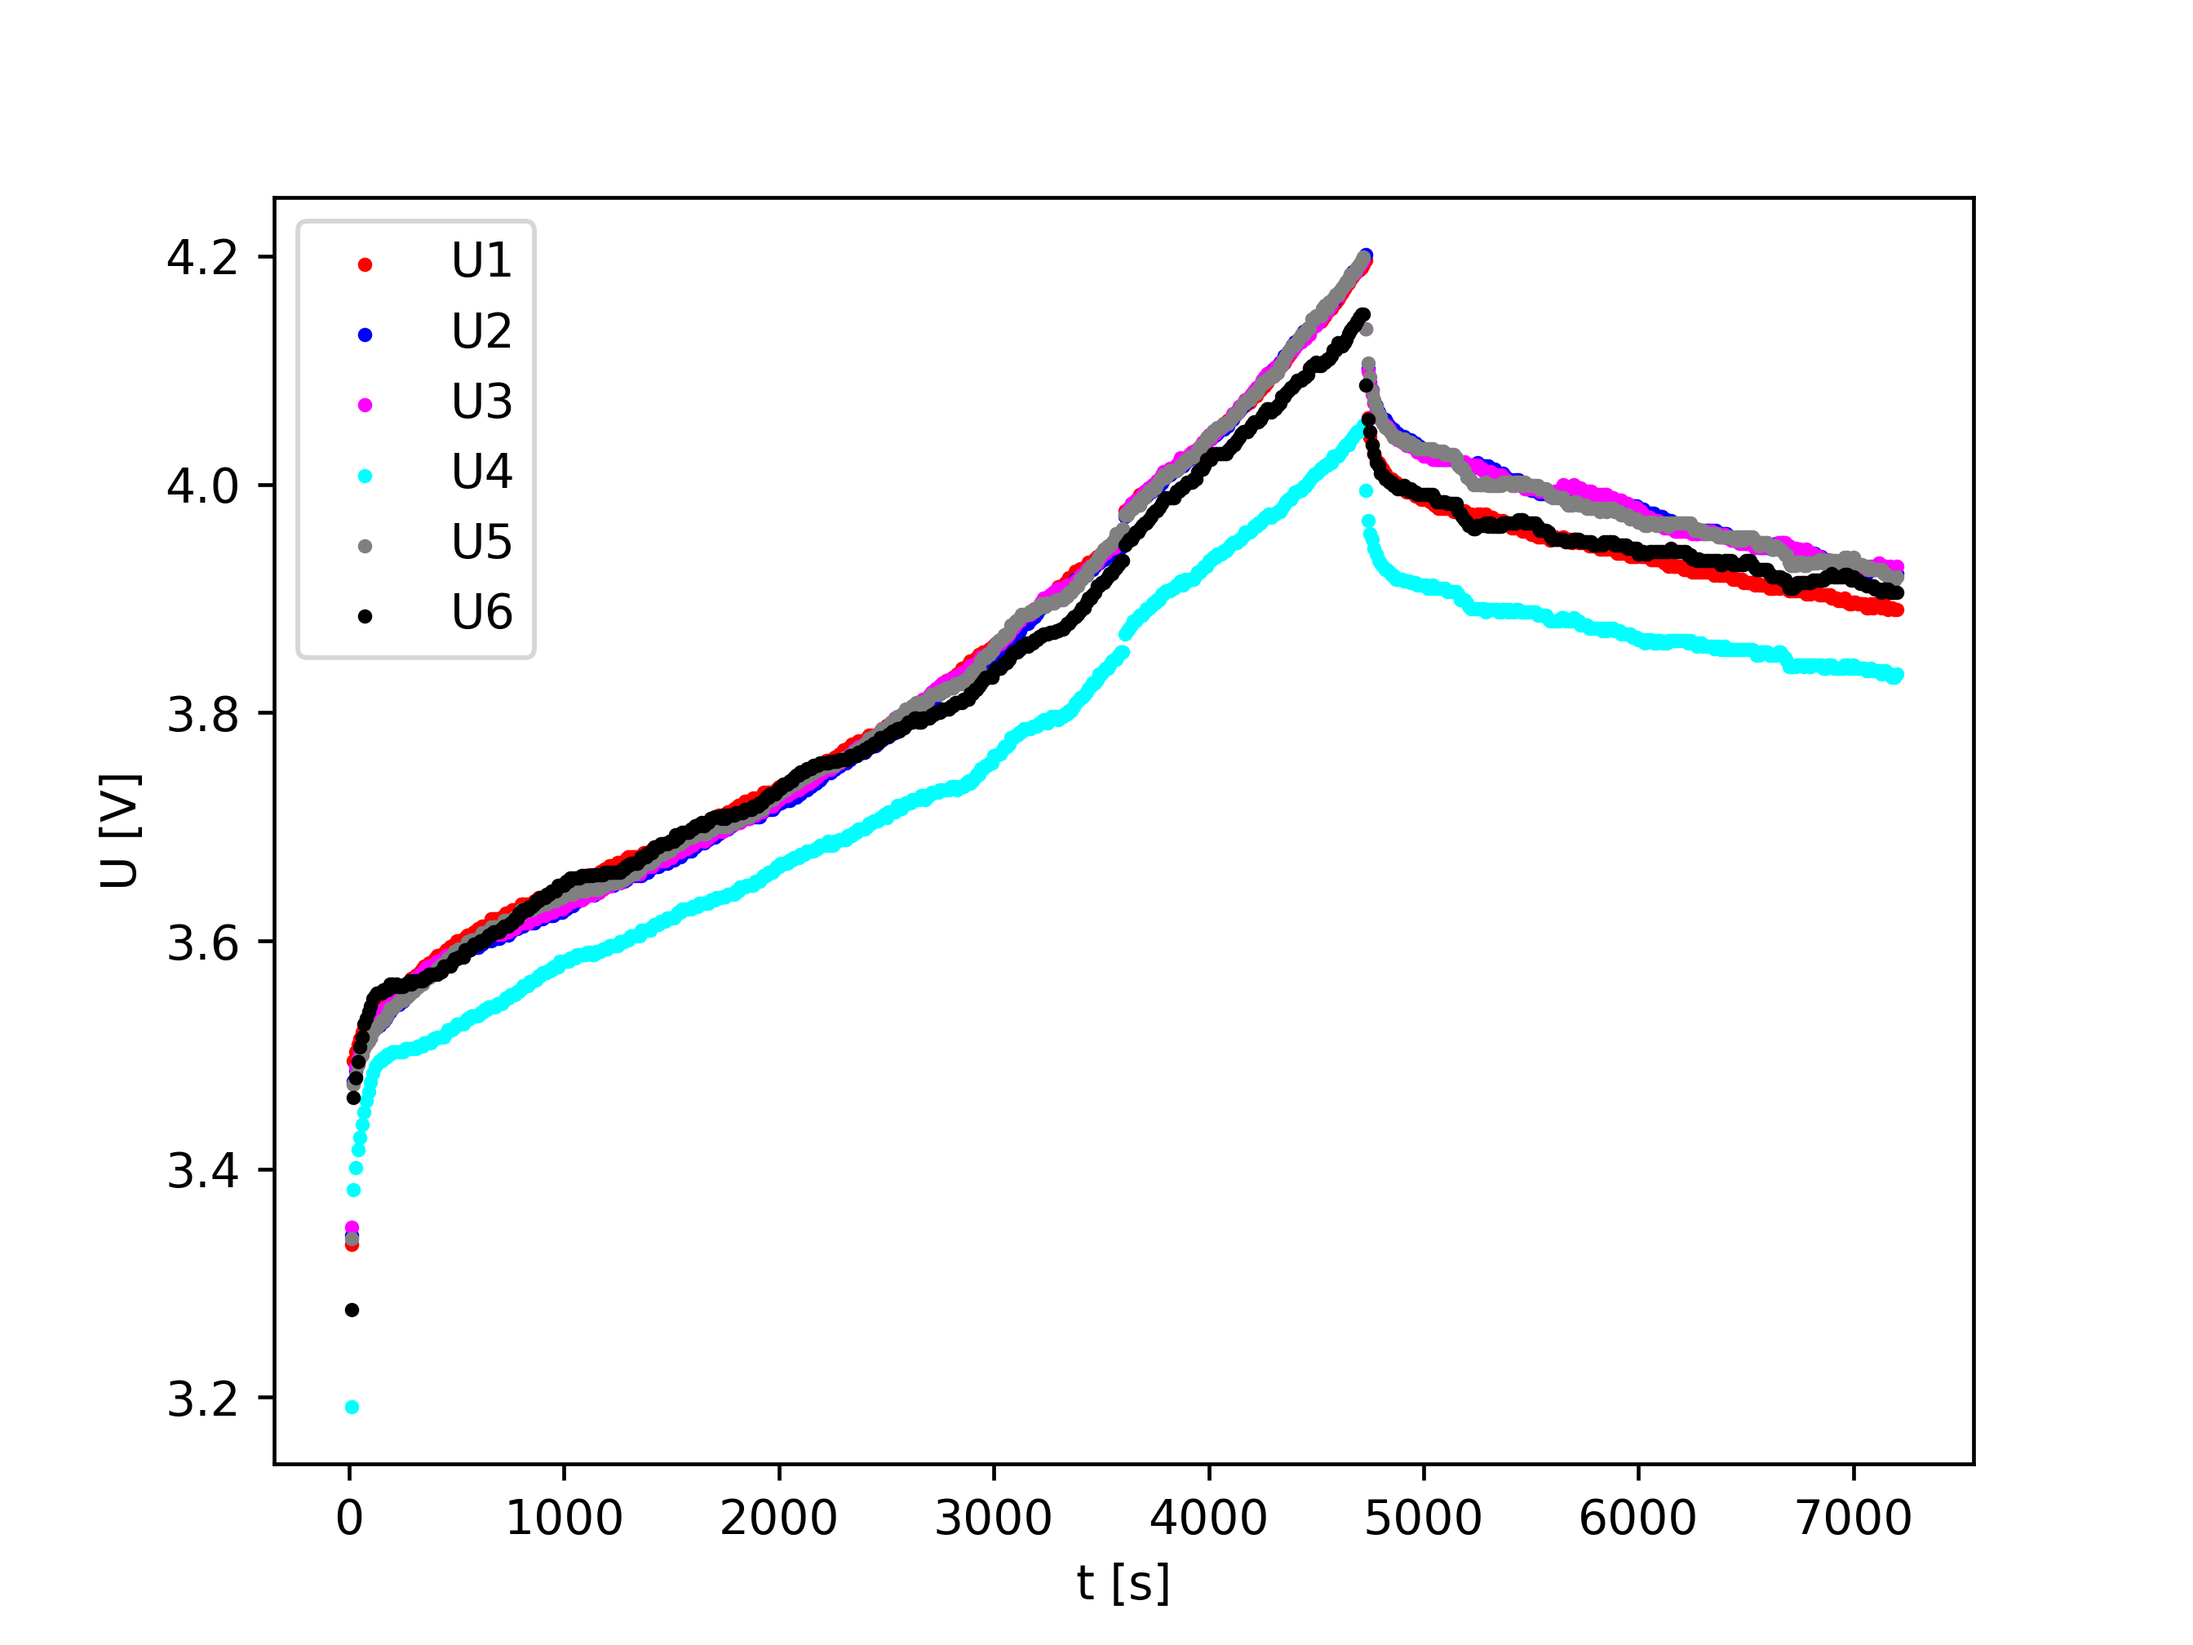
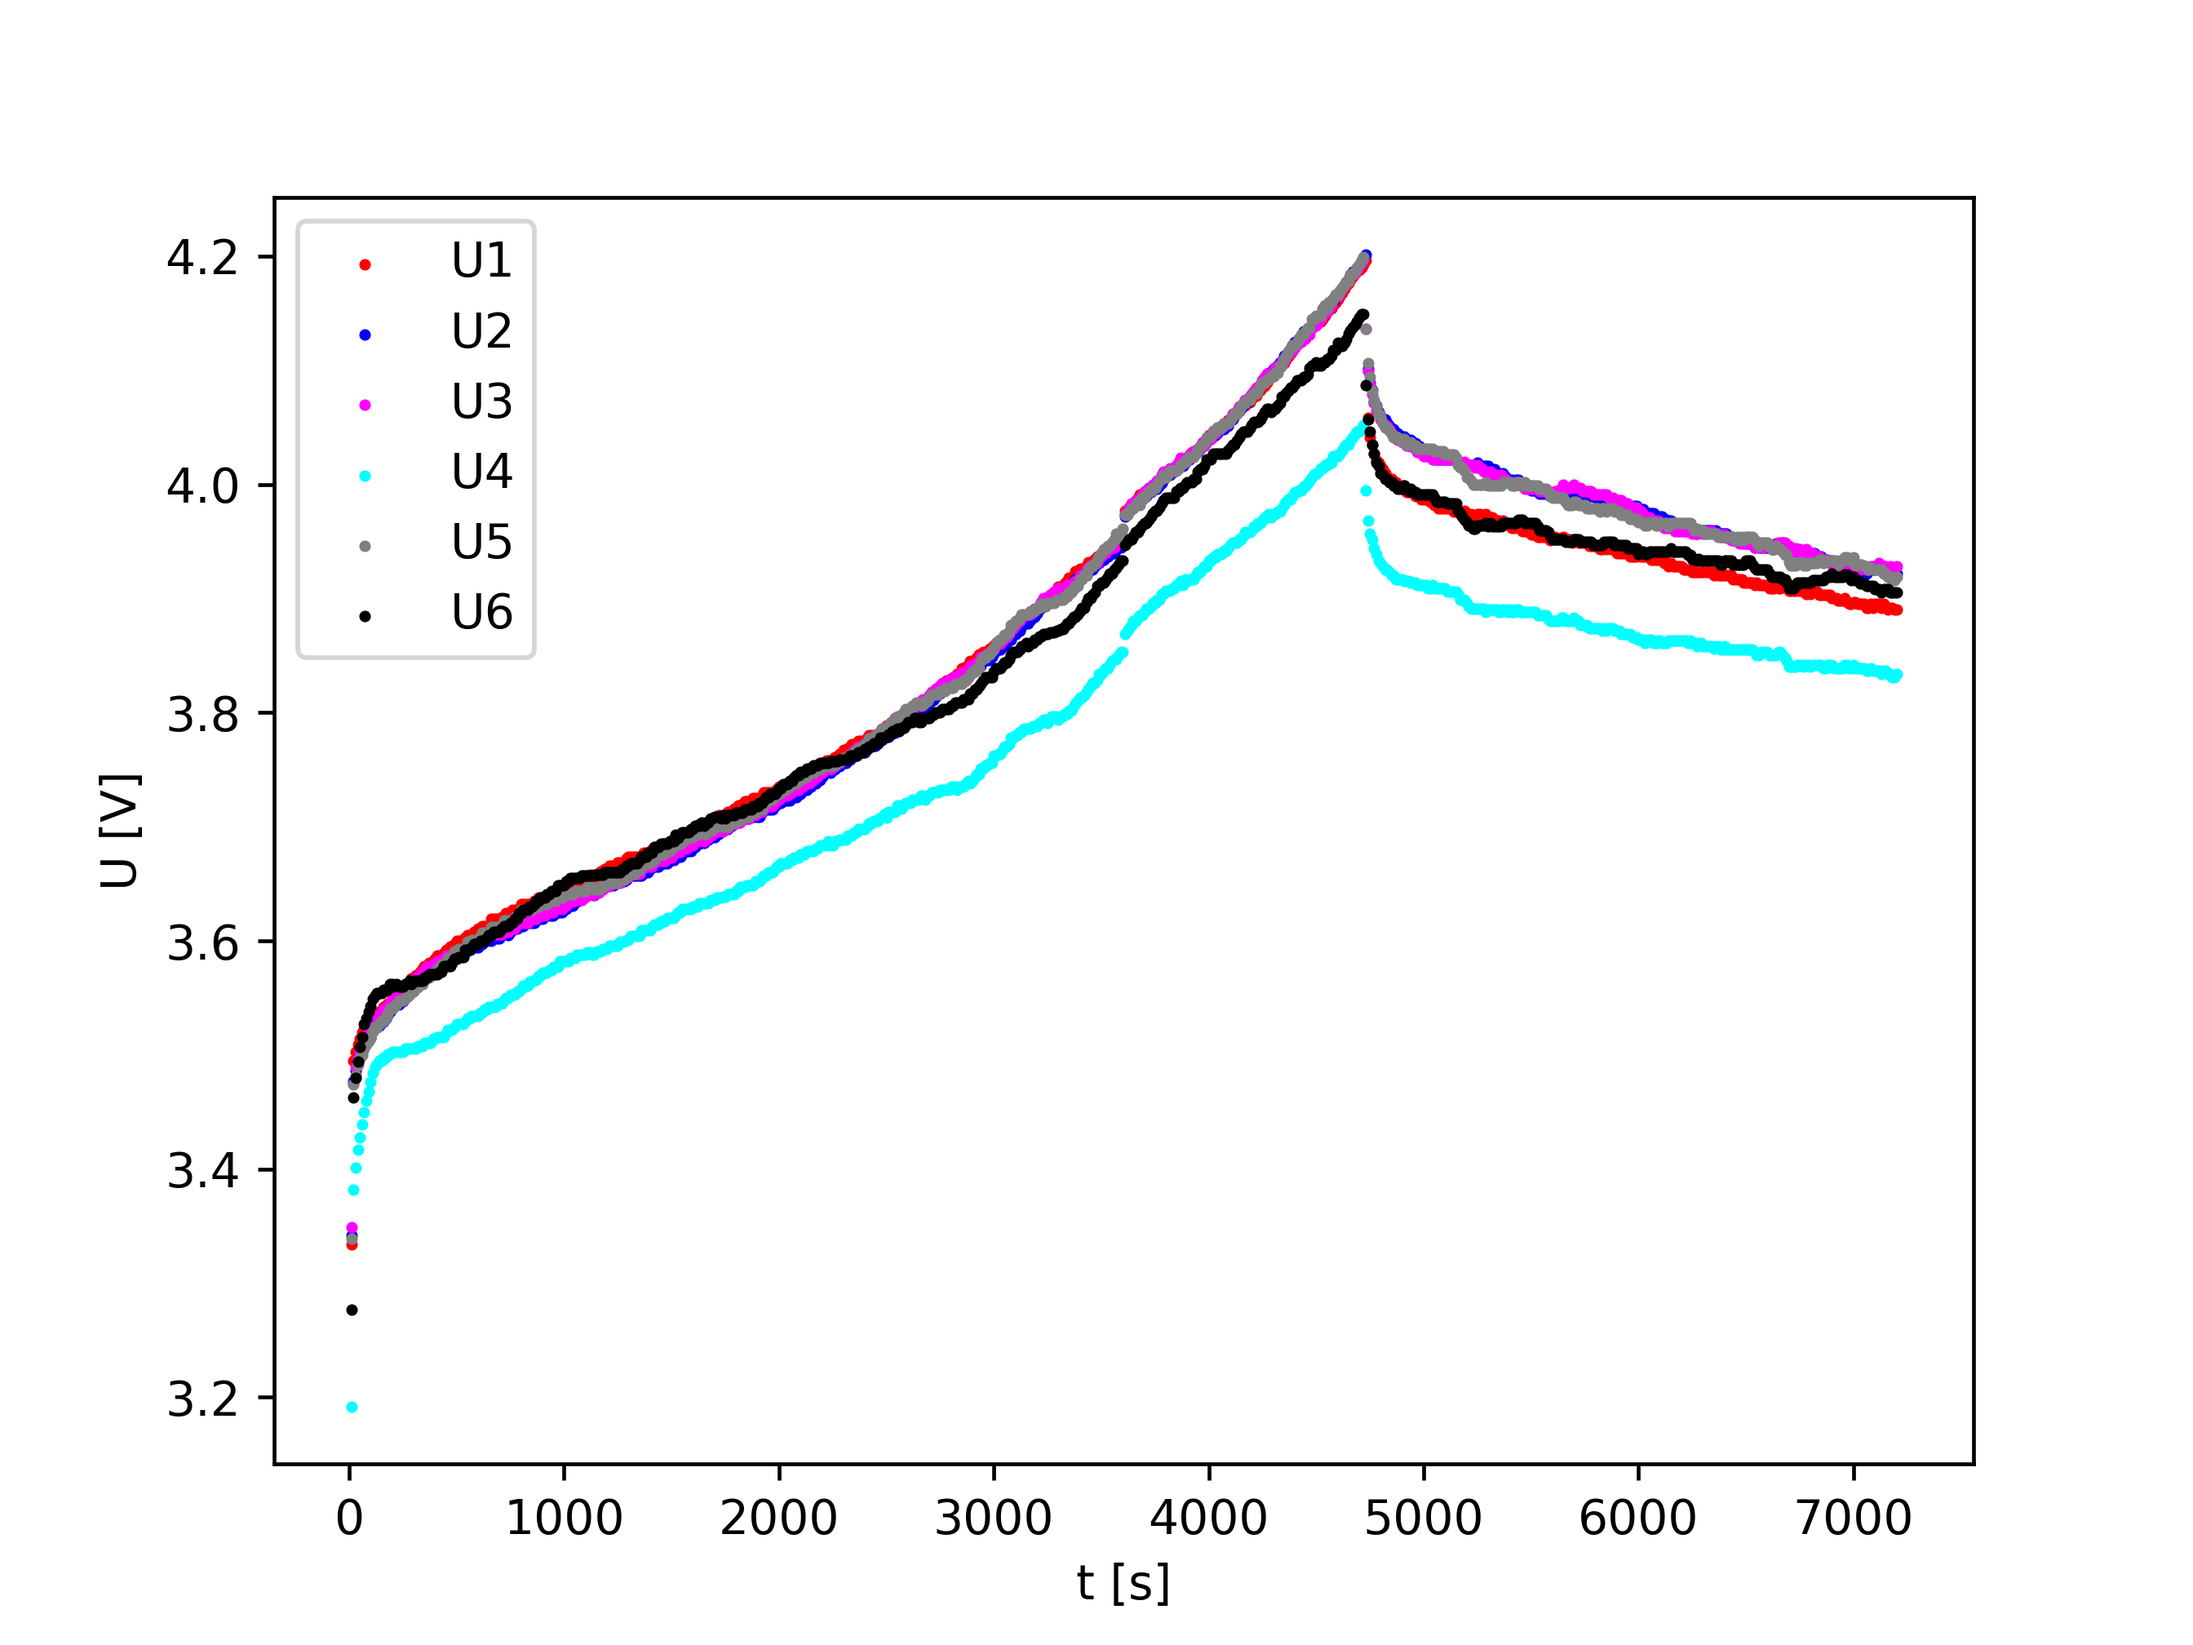
Repair li-ion analysis

diff --git a/bms_li-ion.py b/bms_li-ion.py
@@ -28,19 +28,19 @@ bat_data = bat_data.append(bat_data1, ignore_index=True)
 print(bat_data) #ipeh1+ipeh2
 
 #wykres zbiorczy napięć
-plt.scatter(bat_time, bat_data.U1, s=4, c="red", label='U1')
-plt.scatter(bat_time, bat_data.U2, s=4, c="blue", label='U2')
-plt.scatter(bat_time, bat_data.U3, s=4, c="magenta", label='U3')
-plt.scatter(bat_time, bat_data.U4, s=4, c="cyan", label='U4')
-plt.scatter(bat_time, bat_data.U5, s=4, c="gray", label='U5')
-plt.scatter(bat_time, bat_data.U6, s=4, c="black", label='U6')
+plt.scatter(bat_time, bat_data.U1, s=2, c="red", label='U1')
+plt.scatter(bat_time, bat_data.U2, s=2, c="blue", label='U2')
+plt.scatter(bat_time, bat_data.U3, s=2, c="magenta", label='U3')
+plt.scatter(bat_time, bat_data.U4, s=2, c="cyan", label='U4')
+plt.scatter(bat_time, bat_data.U5, s=2, c="gray", label='U5')
+plt.scatter(bat_time, bat_data.U6, s=2, c="black", label='U6')
 plt.xlabel("t [s]")
 plt.ylabel("U [V]")
 plt.legend(loc='best')
 plt.savefig('Lion_voltages.png', dpi=420)
 
 #krzywe ładowania
-bat_ref_1C = pd.read_csv('NMC_1C.csv', sep='; ',decimal=',') #krzywa referencyjna 1C
+bat_ref_1C = pd.read_csv('NMC_2C.csv', sep='; ',decimal=',') #krzywa referencyjna 1C
 bat_ref_1C["U"] = bat_ref_1C["U"].values[::-1]
 bat_ref_1C["Q"] = bat_ref_1C["Q"].values*0.01
 coeffs_1C = np.polynomial.polynomial.polyfit(bat_ref_1C.Q,bat_ref_1C.U,9) #dopasowanie wielomianu
@@ -55,10 +55,12 @@ bat_data_charge = bat_data[:472] #cięcie na część ładowania i rozładowania
 bat_data_discharge = bat_data[472:]
 bat_data_discharge = bat_data_discharge.reset_index(drop=True)
 
-bat_data_charge['Q'] = (bat_data_charge.index+1)*10*5000/3600/6560 #przeliczanie kolumny z ładunkiem
-bat_data_discharge['Q'] = (6560-(bat_data_discharge.index+1)*10*200/3600)/6560
+bat_data_charge['Q'] = (630+(bat_data_charge.index+1)*10*5000/3600)/8400 #przeliczanie kolumny z ładunkiem
+bat_data_discharge['Q'] = (8400-(bat_data_discharge.index+1)*10*200/3600)/8400 - 0.075
 
-bat_data_charge['StdevCh'] = bat_data_charge.Stdev/bat_diff_calc(bat_data_charge.Q,coeffs_1C) #obliczanie odchylenia ładunku
+print(bat_data_charge.Q)
+
+bat_data_charge['StdevCh'] = bat_data_charge['Stdev']/bat_diff_calc(bat_data_charge['Q'],coeffs_1C) #obliczanie odchylenia ładunku
 bat_data_discharge['StdevCh'] = bat_data_discharge.Stdev/bat_diff_calc(bat_data_discharge.Q,coeffs_02C)
 
 bat_data = bat_data_charge  #końcowe sumowanie danych
@@ -67,12 +69,12 @@ bat_mobil = 42
 
 #wykres
 fig, axs = plt.subplots(8,sharex=True, gridspec_kw={'hspace': 0})
-axs[0].scatter(bat_time, bat_data.U1, s=5, c=bat_data.B1, cmap=colormap1)
-axs[1].scatter(bat_time, bat_data.U2, s=5, c=bat_data.B2, cmap=colormap2)
-axs[2].scatter(bat_time, bat_data.U3, s=5, c=bat_data.B3, cmap=colormap3)
-axs[3].scatter(bat_time, bat_data.U4, s=5, c=bat_data.B4, cmap=colormap4)
-axs[4].scatter(bat_time, bat_data.U5, s=5, c=bat_data.B5, cmap=colormap5)
-axs[5].scatter(bat_time, bat_data.U6, s=5, c=bat_data.B6, cmap=colormap6)
+axs[0].scatter(bat_time, bat_data.U1, s=3, c=bat_data.B1, cmap=colormap1)
+axs[1].scatter(bat_time, bat_data.U2, s=3, c=bat_data.B2, cmap=colormap2)
+axs[2].scatter(bat_time, bat_data.U3, s=3, c=bat_data.B3, cmap=colormap3)
+axs[3].scatter(bat_time, bat_data.U4, s=3, c=bat_data.B4, cmap=colormap4)
+axs[4].scatter(bat_time, bat_data.U5, s=3, c=bat_data.B5, cmap=colormap5)
+axs[5].scatter(bat_time, bat_data.U6, s=3, c=bat_data.B6, cmap=colormap6)
 axs[6].scatter(bat_time, bat_data.Stdev, s=1)
 axs[7].scatter(bat_time, bat_data.StdevCh, s=1)
 axs[0].set(xlabel='$t$ / s', ylabel='$U_1$ / V')
